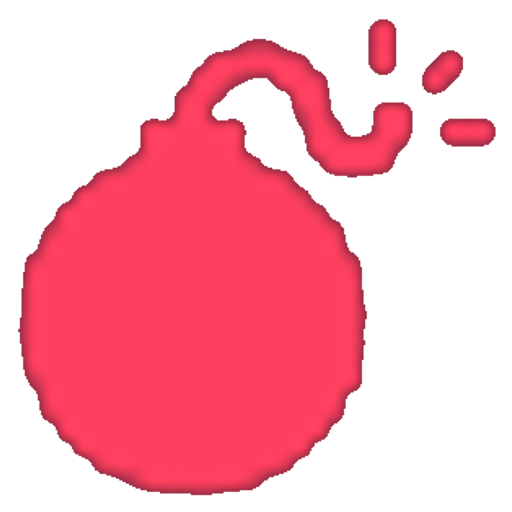
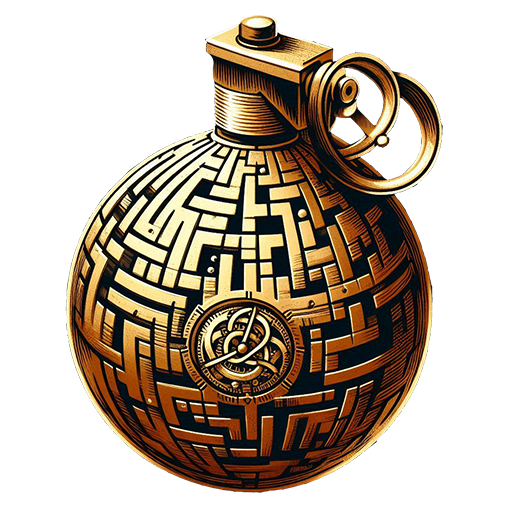
Новые иконки
- Добавлены иконки для предметов
- Обновлены изображения предметов
- Добавлены звуки для нитки
- Удалены неиспользуемые usings

diff --git a/Labirint.Core/Items/Item.cs b/Labirint.Core/Items/Item.cs
@@ -5,7 +5,7 @@ public abstract class Item
     public string Name { get; protected init; } = null!;
     public string DisplayName { get; protected init; } = null!;
 
-    public virtual string Icon => $"/images/items/{Name}.png";
+    public virtual string Icon => $"/images/items/{Name}-icon.png";
 
     public ItemStack Stack { get; protected init; } = null!;
 
@@ -27,7 +27,7 @@ public abstract class Item
     {
         return new WorldItem
         {
-            ImageSource = Icon,
+            ImageSource = $"/images/items/{Name}.png",
             Alignment = Alignment.Center,
             PickUpSound = SoundSettings?.PickUpSound ?? string.Empty,
             Scale = 0.9,

diff --git a/Labirint.Core/Items/WoolYarn.cs b/Labirint.Core/Items/WoolYarn.cs
@@ -7,13 +7,13 @@ public class WoolYarn : Item
 {
     public WoolYarn()
     {
-        Name = "WoolYarn";
+        Name = "wool-yarn";
         DisplayName = "Нить";
 
         Stack = new LimitedItemStack(this, 0, 1);
 
         ControlSettings = new ControlSettings(Key.KeyY, Key.KeyY);
-        SoundSettings = new SoundSettings("bomb", "score");
+        SoundSettings = new SoundSettings("/media/wool-yarn.mp3", "/media/yarn.mp3");
     }
 
     public override int CalculateCountInMaze(int width, int height, int density)

diff --git a/LabirintBlazorApp/Components/MazeWalls.razor.cs b/LabirintBlazorApp/Components/MazeWalls.razor.cs
@@ -1,6 +1,4 @@
-using Labirint.Core.Common;
-
-namespace LabirintBlazorApp.Components;
+namespace LabirintBlazorApp.Components;
 
 public partial class MazeWalls : MazeComponent
 {
@@ -56,7 +54,7 @@ public partial class MazeWalls : MazeComponent
 
         if (Maze[x, y].TempWoolYarn)
         {
-            sequence.DrawRect(topLeft.X+10, topLeft.Y+10, _height/4, _width*4);
+            sequence.DrawRect(topLeft.X + 10, topLeft.Y + 10, _height / 4, _width * 4);
         }
     }
 }

diff --git a/LabirintBlazorApp/Common/Control/Schemes/AlternativeScheme.cs b/LabirintBlazorApp/Common/Control/Schemes/AlternativeScheme.cs
@@ -1,6 +1,4 @@
-using Labirint.Core.Common;
-
-namespace LabirintBlazorApp.Common.Control.Schemes;
+namespace LabirintBlazorApp.Common.Control.Schemes;
 
 public class AlternativeScheme : IControlScheme
 {
@@ -13,6 +11,6 @@ public class AlternativeScheme : IControlScheme
 
     public Key GetActivateKey(ControlSettings settings)
     {
-        return settings.AlternativeActivateKey;
+        return settings.AlternativeActivateKey ?? settings.ActivateKey;
     }
 }

diff --git a/LabirintBlazorApp/Components/Base/MazeComponent.cs b/LabirintBlazorApp/Components/Base/MazeComponent.cs
@@ -6,7 +6,7 @@ namespace LabirintBlazorApp.Components.Base;
 public abstract class MazeComponent : ComponentBase
 {
     protected ElementReference CanvasRef;
-    
+
     private bool _isShouldRender;
     private Canvas2DContext _context = null!;
 

diff --git a/LabirintBlazorApp/Components/MazeEntities.razor.cs b/LabirintBlazorApp/Components/MazeEntities.razor.cs
@@ -1,7 +1,4 @@
-using Labirint.Core;
-using Labirint.Core.Common;
-
-namespace LabirintBlazorApp.Components;
+namespace LabirintBlazorApp.Components;
 
 public partial class MazeEntities : MazeComponent
 {

diff --git a/LabirintBlazorApp/Common/Control/Schemes/ClassicScheme.cs b/LabirintBlazorApp/Common/Control/Schemes/ClassicScheme.cs
@@ -1,6 +1,4 @@
-using Labirint.Core.Common;
-
-namespace LabirintBlazorApp.Common.Control.Schemes;
+namespace LabirintBlazorApp.Common.Control.Schemes;
 
 public class ClassicScheme : IControlScheme
 {

diff --git a/LabirintBlazorApp/Common/Control/Schemes/IControlScheme.cs b/LabirintBlazorApp/Common/Control/Schemes/IControlScheme.cs
@@ -1,6 +1,4 @@
-using Labirint.Core.Common;
-
-namespace LabirintBlazorApp.Common.Control.Schemes;
+namespace LabirintBlazorApp.Common.Control.Schemes;
 
 public interface IControlScheme
 {

diff --git a/LabirintBlazorApp/Common/Drawing/AlignmentHelper.cs b/LabirintBlazorApp/Common/Drawing/AlignmentHelper.cs
@@ -1,6 +1,4 @@
-using Labirint.Core.Common;
-
-namespace LabirintBlazorApp.Common.Drawing;
+namespace LabirintBlazorApp.Common.Drawing;
 
 public static class AlignmentHelper
 {

diff --git a/LabirintBlazorApp/Common/Control/AttackEventArgs.cs b/LabirintBlazorApp/Common/Control/AttackEventArgs.cs
@@ -1,6 +1,4 @@
-using Labirint.Core.Common;
-
-namespace LabirintBlazorApp.Common.Control;
+namespace LabirintBlazorApp.Common.Control;
 
 public class AttackEventArgs
 {

diff --git a/LabirintBlazorApp/Common/Control/MoveEventArgs.cs b/LabirintBlazorApp/Common/Control/MoveEventArgs.cs
@@ -1,6 +1,4 @@
-using Labirint.Core.Common;
-
-namespace LabirintBlazorApp.Common.Control;
+namespace LabirintBlazorApp.Common.Control;
 
 public class MoveEventArgs
 {
